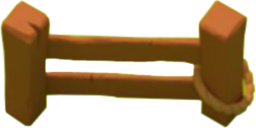
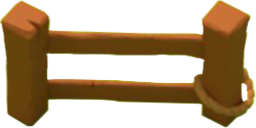
调整栅栏1.5倍

diff --git a/Game3D01/src/game/GameMap0.ts b/Game3D01/src/game/GameMap0.ts
@@ -4,159 +4,141 @@ import Game from "./Game";
 import GamePro from "./GamePro";
 import GridType from "./bg/GridType";
 //地图逻辑层
-export default class GameMap0 extends Laya.Sprite{
-    /**半空碰撞组*/
-    Aharr :GameHitBox[];
-    /**地面碰撞组*/
-    Wharr :GameHitBox[];
-    /**敌人组*/
-    Eharr :GameHitBox[];
-    /**主角组*/
-    Hharr :GameHitBox[];
-    
+export default class GameMap0 extends Laya.Sprite {
+
+    Aharr: GameHitBox[];//半空碰撞组
+    Wharr: GameHitBox[];//地面碰撞组    
+    Eharr: GameHitBox[];//敌人组
+    Hharr: GameHitBox[];//主角组
 
 
-    private arrhb  :GameHitBox;
-    public ballistic:Laya.Sprite;
+
+    private arrhb: GameHitBox;
+    public ballistic: Laya.Sprite;
     //public laodings:Laya.Sprite;
-    private map:any = {};
-    private Amap:any = {};
-    constructor(){
+    private map: any = {};
+    private Amap: any = {};
+    constructor() {
         super();
         this.ballistic = new Laya.Sprite();
         //this.laodings  = new Laya.Sprite();
-        this.arrhb = new GameHitBox(2,2);
+        this.arrhb = new GameHitBox(2, 2);
     }
 
-    public drawMap():void{
-        let hb:GameHitBox = null;
+    public drawMap(): void {
+        let hb: GameHitBox = null;
         this.Aharr = [];
         this.Wharr = [];
         this.Eharr = [];
-        this.Hharr = [];        
+        this.Hharr = [];
         this.map = {};
         this.Amap = {};
         this.graphics.clear();
 
-        hb = new GameHitBox(GameBG.ww*(GameBG.wnum+1),GameBG.ww);
-        hb.setXY(0,GameBG.ww * 8);
+        hb = new GameHitBox(GameBG.ww * (GameBG.wnum + 1), GameBG.ww);
+        hb.setXY(0, GameBG.ww * 8);
         this.Wharr.push(hb);
         this.Aharr.push(hb);
 
-        hb = new GameHitBox(GameBG.ww,GameBG.ww*(GameBG.hnum-2));
-        hb.setXY(0,GameBG.ww*2);
+        hb = new GameHitBox(GameBG.ww, GameBG.ww * (GameBG.hnum - 2));
+        hb.setXY(0, GameBG.ww * 2);
         this.Wharr.push(hb);
         this.Aharr.push(hb);
 
-        hb = new GameHitBox(GameBG.ww,GameBG.ww*(GameBG.hnum-2));
-        hb.setXY(GameBG.ww*GameBG.wnum,GameBG.ww*2);
+        hb = new GameHitBox(GameBG.ww, GameBG.ww * (GameBG.hnum - 2));
+        hb.setXY(GameBG.ww * GameBG.wnum, GameBG.ww * 2);
         this.Wharr.push(hb);
         this.Aharr.push(hb);
 
-        var k:number = 0;
-        for (var j = 0; j < GameBG.hnum; j++) {           
-            for (let i = 0; i < GameBG.wnum+1; i++) {
+        var k: number = 0;
+        for (var j = 0; j < GameBG.hnum; j++) {
+            for (let i = 0; i < GameBG.wnum + 1; i++) {
                 var ww = GameBG.ww;
                 var x = i * ww;//- (ww/2);
                 var y = j * ww;
-                let key:number = GameBG.arr0[k];
-                if( k < GameBG.arr0.length){
-                    if(GridType.isWall(key)  
-                    || GridType.isRiverPoint(key) 
-                    || GridType.isRiverScale9Grid(key) 
-                    || GridType.isRiverRow(key) 
-                    || GridType.isRiverCol(key) 
-                    || GridType.isRiverPoint(key) )
-                    {
-                        if(this.map[key]){
+                let key: number = GameBG.arr0[k];
+                if (k < GameBG.arr0.length) {
+                    if (GridType.isWall(key)
+                        || GridType.isRiverPoint(key)
+                        || GridType.isRiverScale9Grid(key)
+                        || GridType.isRiverRow(key)
+                        || GridType.isRiverCol(key)
+                        || GridType.isRiverPoint(key)) {
+                        if (this.map[key]) {
                             hb = this.map[key];
-                            hb.setRq(hb.x,hb.y,x + GameBG.ww - hb.x,y + GameBG.ww - hb.y);
-                        }else{
-                           hb = new GameHitBox(GameBG.ww,GameBG.ww);
-                           hb.setXY(x,y);
-                           this.Wharr.push(hb);
-                           this.map[key] = hb;
-                       }
+                            hb.setRq(hb.x, hb.y, x + GameBG.ww - hb.x, y + GameBG.ww - hb.y);
+                        } else {
+                            hb = new GameHitBox(GameBG.ww, GameBG.ww);
+                            hb.setXY(x, y);
+                            this.Wharr.push(hb);
+                            this.map[key] = hb;
+                        }
                     }
-                     else if(GridType.isFence(key) ){
-                        if(this.map[key]){
-                            hb = this.map[key];
-                            hb.setRq(hb.x - GameBG.ww,hb.y,x + GameBG.ww * 3 - hb.x,y + GameBG.ww - hb.y);
-                        }else{
-                           hb = new GameHitBox(GameBG.ww * 3,GameBG.ww);
-                           hb.setXY(x,y);
-                           this.Wharr.push(hb);
-                           this.map[key] = hb;
-                       }
-                     }
+                    else if (GridType.isFence(key)) {
+                        hb = new GameHitBox(GameBG.ww * 3, GameBG.ww);
+                        hb.setXY(x - GameBG.ww, y);
+                        this.Wharr.push(hb);
+                    }
                 }
                 k++;
             }
-            if(k>=GameBG.arr0.length){
+            if (k >= GameBG.arr0.length) {
                 break;
             }
         }
 
-        k= 0;
-        for (var j = 0; j < GameBG.hnum; j++) {           
-            for (let i = 0; i < GameBG.wnum+1; i++) {
+        k = 0;
+        for (var j = 0; j < GameBG.hnum; j++) {
+            for (let i = 0; i < GameBG.wnum + 1; i++) {
                 var ww = GameBG.ww;
                 var x = i * ww;//- (ww/2);
                 var y = j * ww;
-                if( k < GameBG.arr0.length){
+                if (k < GameBG.arr0.length) {
                     let key = GameBG.arr0[k];
-                    if(GridType.isWall(GameBG.arr0[k]))
-                    {
-                        if(this.Amap[key]){
+                    if (GridType.isWall(GameBG.arr0[k])) {
+                        if (this.Amap[key]) {
                             hb = this.Amap[key];
-                            hb.setVV(hb.x,hb.y,x + GameBG.ww - hb.x, y + GameBG.ww - hb.y);
-                        }else{
-                            hb = new GameHitBox(GameBG.ww,GameBG.ww);
-                            hb.setXY(x,y);
+                            hb.setVV(hb.x, hb.y, x + GameBG.ww - hb.x, y + GameBG.ww - hb.y);
+                        } else {
+                            hb = new GameHitBox(GameBG.ww, GameBG.ww);
+                            hb.setXY(x, y);
                             this.Aharr.push(hb);
                             this.Amap[key] = hb;
                         }
                     }
-                    else if(GridType.isFence(GameBG.arr0[k]))
-                    {
-                        if(this.Amap[key]){
-                            hb = this.Amap[key];
-                            hb.setRq(hb.x - GameBG.ww,hb.y,x + GameBG.ww * 3 - hb.x,y + GameBG.ww - hb.y);
-                        }else{
-                           hb = new GameHitBox(GameBG.ww * 3,GameBG.ww);
-                           hb.setXY(x,y);
-                           this.Aharr.push(hb);
-                           this.Amap[key] = hb;
-                       }
+                    else if (GridType.isFence(GameBG.arr0[k])) {
+                        hb = new GameHitBox(GameBG.ww * 3, GameBG.ww);
+                        hb.setXY(x - GameBG.ww, y);
+                        this.Aharr.push(hb);
                     }
-                   
+
                 }
                 k++;
             }
-            if(k>=GameBG.arr0.length){
+            if (k >= GameBG.arr0.length) {
                 break;
             }
         }
 
-        hb = new GameHitBox(GameBG.ww*(GameBG.wnum-1),GameBG.ww);
-        hb.setXY(GameBG.ww,GameBG.ww * (j+1));
+        hb = new GameHitBox(GameBG.ww * (GameBG.wnum - 1), GameBG.ww);
+        hb.setXY(GameBG.ww, GameBG.ww * (j + 1));
         this.Wharr.push(hb);
         this.Aharr.push(hb);
-        
+
         //传送门左侧
-        hb = new GameHitBox(GameBG.ww*(5+3),GameBG.ww);
-        hb.setXY(0,GameBG.ww * 9);
+        hb = new GameHitBox(GameBG.ww * 5, GameBG.ww);
+        hb.setXY(0, GameBG.ww * 9);
         this.Wharr.push(hb);
         this.Aharr.push(hb);
         //传送门右侧
-        hb = new GameHitBox(GameBG.ww*5,GameBG.ww);
-        hb.setXY(GameBG.ww*8,GameBG.ww * 9);
+        hb = new GameHitBox(GameBG.ww * 5, GameBG.ww);
+        hb.setXY(GameBG.ww * 8, GameBG.ww * 9);
         this.Wharr.push(hb);
         this.Aharr.push(hb);
 
         for (let i = 0; i < this.Wharr.length; i++) {
             hb = this.Wharr[i];
-            this.graphics.drawRect(hb.left,hb.top,hb.ww,hb.hh,null,0xff0000);
+            this.graphics.drawRect(hb.left, hb.top, hb.ww, hb.hh, null, 0xff0000);
         }
 
         this.alpha = 1;
@@ -164,44 +146,44 @@ export default class GameMap0 extends Laya.Sprite{
         //this.addChild(this.laodings);
     }
 
-    private futureBox:GameHitBox = new GameHitBox(1,1);
+    private futureBox: GameHitBox = new GameHitBox(1, 1);
 
-    public chechHitHero_(vx:number,vy:number):boolean{
-        return this.chechHit(Game.hero,vx,vy);
+    public chechHitHero_(vx: number, vy: number): boolean {
+        return this.chechHit(Game.hero, vx, vy);
     }
 
-    public chechHit(gamepro:GamePro,vx:number,vy:number):boolean{
+    public chechHit(gamepro: GamePro, vx: number, vy: number): boolean {
         var hb = gamepro.hbox;
         var fb = this.futureBox;
-        fb.setRq(hb.x+vx,hb.y+vy,hb.ww,hb.hh);
+        fb.setRq(hb.x + vx, hb.y + vy, hb.ww, hb.hh);
         for (let i = 0; i < this.Wharr.length; i++) {
             let ehb = this.Wharr[i];
-            if(ehb.hit(ehb,fb)){
+            if (ehb.hit(ehb, fb)) {
                 return true;
             }
         }
         return false;
     }
 
-    public chechHit_arr(thb:GameHitBox,thbArr:GameHitBox[]):GameHitBox{
-        let ehb:GameHitBox = null;
+    public chechHit_arr(thb: GameHitBox, thbArr: GameHitBox[]): GameHitBox {
+        let ehb: GameHitBox = null;
         for (let i = 0; i < thbArr.length; i++) {
             ehb = thbArr[i];
-            if(ehb.hit(ehb,thb)){
+            if (ehb.hit(ehb, thb)) {
                 return ehb;
             }
         }
         return null;
     }
-    
-    private fcount:number = 0;
-    private sp:Laya.Point = new Laya.Point();
-    private ep:Laya.Point = new Laya.Point();
 
-    public drawBallistic(heron:number):void{
-        Game.hero.hbox.setXY(Game.hero.sp2d.x,Game.hero.sp2d.y);
-        var vx = Math.cos(heron)*GameBG.mw2;
-        var vy = Math.sin(heron)*GameBG.mw2;
+    private fcount: number = 0;
+    private sp: Laya.Point = new Laya.Point();
+    private ep: Laya.Point = new Laya.Point();
+
+    public drawBallistic(heron: number): void {
+        Game.hero.hbox.setXY(Game.hero.sp2d.x, Game.hero.sp2d.y);
+        var vx = Math.cos(heron) * GameBG.mw2;
+        var vy = Math.sin(heron) * GameBG.mw2;
         var x0 = Game.hero.hbox.cx;
         var y0 = Game.hero.hbox.cy;
         this.sp.x = x0;
@@ -212,7 +194,7 @@ export default class GameMap0 extends Laya.Sprite{
         g.clear();
         for (let i = 0; i < 6000; i++) {
 
-            this.arrhb.setVV(x0,y0,vx,vy);
+            this.arrhb.setVV(x0, y0, vx, vy);
             var ebh;// = this.chechHit_arr(this.arrhb,Game.e0.);
 
             // if( Game.e0.hbox.hit(Game.e0.hbox,this.arrhb) ){
@@ -223,33 +205,33 @@ export default class GameMap0 extends Laya.Sprite{
             //     break;
             // } 
 
-            ebh  = this.chechHit_arr(this.arrhb,this.Wharr);
-            if( ebh  ){
-                g.drawRect(this.arrhb.x,this.arrhb.y,this.arrhb.ww, this.arrhb.hh,null,"#ff0000");
-                g.drawRect(ebh.x,ebh.y,ebh.ww, ebh.hh,"#00ff00","#00ff00"); 
-                g.drawLine(this.sp.x,this.sp.y,x0,y0,"#ff0000");
+            ebh = this.chechHit_arr(this.arrhb, this.Wharr);
+            if (ebh) {
+                g.drawRect(this.arrhb.x, this.arrhb.y, this.arrhb.ww, this.arrhb.hh, null, "#ff0000");
+                g.drawRect(ebh.x, ebh.y, ebh.ww, ebh.hh, "#00ff00", "#00ff00");
+                g.drawLine(this.sp.x, this.sp.y, x0, y0, "#ff0000");
                 this.sp.x = x0;
                 this.sp.y = y0;
 
-                if(this.fcount<4){                              
-                    if(!this.chechHit_arr( this.arrhb.setVV(x0,y0,-1*vx,vy),this.Wharr)){
-                        vx = -1*vx;
+                if (this.fcount < 4) {
+                    if (!this.chechHit_arr(this.arrhb.setVV(x0, y0, -1 * vx, vy), this.Wharr)) {
+                        vx = -1 * vx;
                         this.fcount++;
-                    }else if(!this.chechHit_arr( this.arrhb.setVV(x0,y0,vx,-1*vy),this.Wharr)){
-                        vy = -1*vy;
+                    } else if (!this.chechHit_arr(this.arrhb.setVV(x0, y0, vx, -1 * vy), this.Wharr)) {
+                        vy = -1 * vy;
                         this.fcount++;
-                    }else{
+                    } else {
                         break;
                     }
-                }else{
+                } else {
                     break;
                 }
-            }else{
-                g.drawRect(this.arrhb.x,this.arrhb.y,this.arrhb.ww, this.arrhb.hh,null,"#0000ff");
+            } else {
+                g.drawRect(this.arrhb.x, this.arrhb.y, this.arrhb.ww, this.arrhb.hh, null, "#0000ff");
                 x0 += vx;
                 y0 += vy;
             }
         }
-        
+
     }
 }

diff --git a/Game3D01/src/script/GameUI2.ts b/Game3D01/src/script/GameUI2.ts
@@ -52,7 +52,7 @@ export default class GameUI2 extends ui.test.TestSceneUI {
 
         var map0: GameMap0 = new GameMap0();
         map0.drawMap();
-        //Laya.stage.addChild(map0);        
+        // Laya.stage.addChild(map0);        
         Game.map0 = map0;
         Game.updateMap();
         this.heroUrl = "h5/ToonSkeletons/ToonSkeletons.lh";
